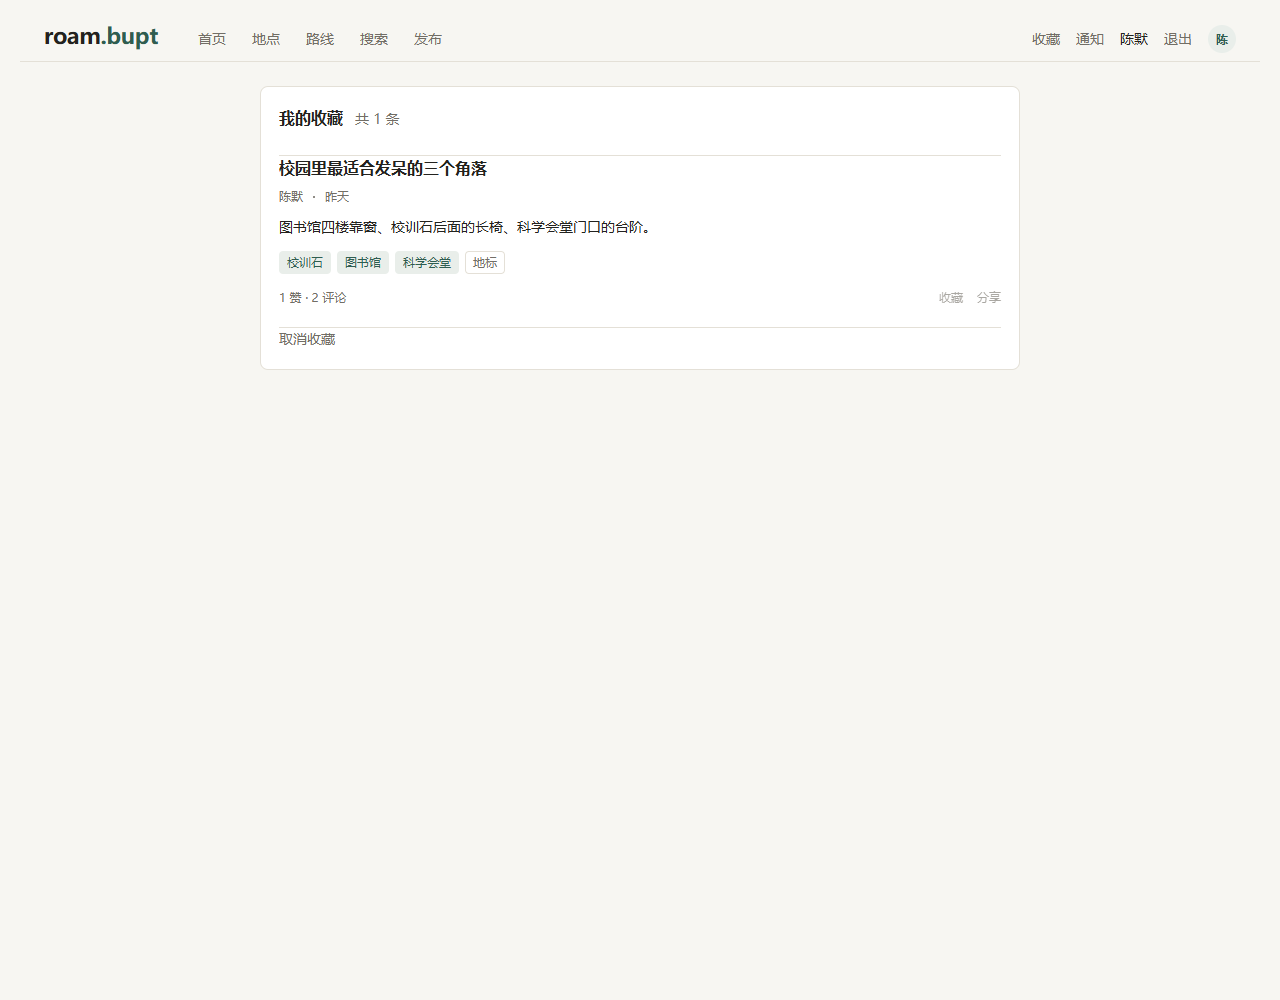
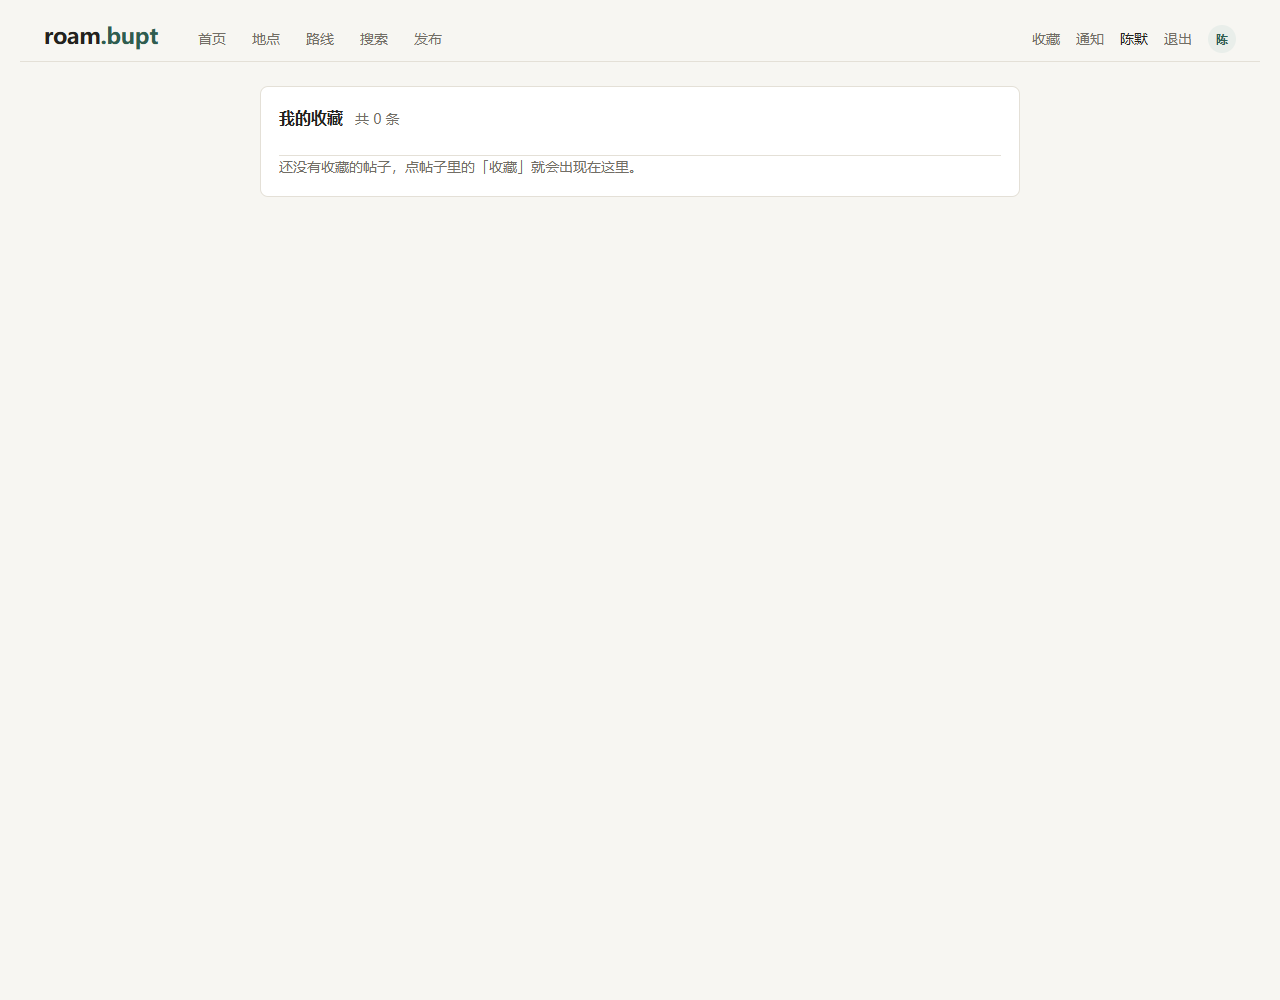
docs: 第二轮 Playwright 复验记录（13 条问题与处理）

Changed region(s): [[0.2188, 0.155, 0.5, 0.372]]

diff --git a/docs/走查与测试记录.md b/docs/走查与测试记录.md
@@ -59,3 +59,47 @@
 - 路线页回车选择与按钮可用性提示；
 - 占位文案统一（「P1 上线」换成用户能懂的话）、收藏入口；
 - 路线方案排序说明与「路口」节点命名。
+
+## 五、第二轮（Playwright 双路复验，2026-11-23）
+
+两个子代理都强制用 Playwright 走真实浏览器：`pw-qa` 测功能与边界（54 项），`pw-ux` 走十步用户旅程。
+
+### pw-qa 发现（7 条，全部修复）
+
+| 等级 | 问题 | 处理 |
+|---|---|---|
+| medium | 正文上限：前端 20000 字 vs 后端 48KB（≈1.6 万汉字） | 统一按字符数 20000，文案「正文最多 20000 字」 |
+| medium | 发布页写「发布后所有人可见」，实际进待审 | 改为「提交后需审核，通过后所有人可见」 |
+| low | 表单错误修好后不消失 | 输入变化时清空错误 |
+| low | 同一错误页内 + toast 双份提示 | 表单请求传 `silent`，全局提示不再重复 |
+| low | 429 文案空泛 | 说明「每分钟最多 5 次」 |
+| low | 普通用户访问 /admin 静默回首页 | 回首页并提示「没有权限访问后台」 |
+| low | 搜索空串无引导 | 加输入提示文案 |
+
+### pw-ux 发现（6 条）
+
+| 等级 | 问题 | 处理 |
+|---|---|---|
+| high | 375/768 规划后方案卡片宽度 0（`.side` 在移动端被整体隐藏） | 只隐藏首页左栏 `.rail`，保留 `.side`；方案卡片宽度 309px |
+| medium | 列表卡片只有灰块「图片」，没有缩略图 | PostCard 渲染真实 `<img>` |
+| medium | 同起终点连规划数值抖动（497/479/495…） | 同查询 60 秒缓存；单测断言两次结果一致 |
+| medium | 帖子详情「关注」禁用，主页却可关注 | 详情按钮改为「查看主页」 |
+| medium | 收藏页无法取消收藏 | 每条加「取消收藏」 |
+| low | 「3.6 4 人评分」粘连 / 无加载态 / 会话 15 分钟过期 / 分段路口名 | 评分已加「分 ·」；会话过期**未复现**（Redis 会话 TTL 为 7 天，推断是当时环境抖动）；加载态与路口命名留待后续 |
+
+### 复验中自己引入又修掉的 bug
+
+- 发布页补错误清除逻辑时漏了 `import watch`，整页白屏 —— 由第二轮验证脚本发现后修复（`69b5a91`）。
+
+### 第二轮验证结果
+
+```
+首页缩略图 img      1 张 ✓
+收藏页取消收藏       1 → 0 ✓
+详情作者按钮         查看主页 ✓
+发布页文案           提交后需审核，通过后所有人可见 ✓
+路线数值稳定         497 = 497 ✓
+正文 20000 字        提交成功 ✓
+移动端方案卡片        宽度 309px ✓
+控制台               [] ✓
+```
